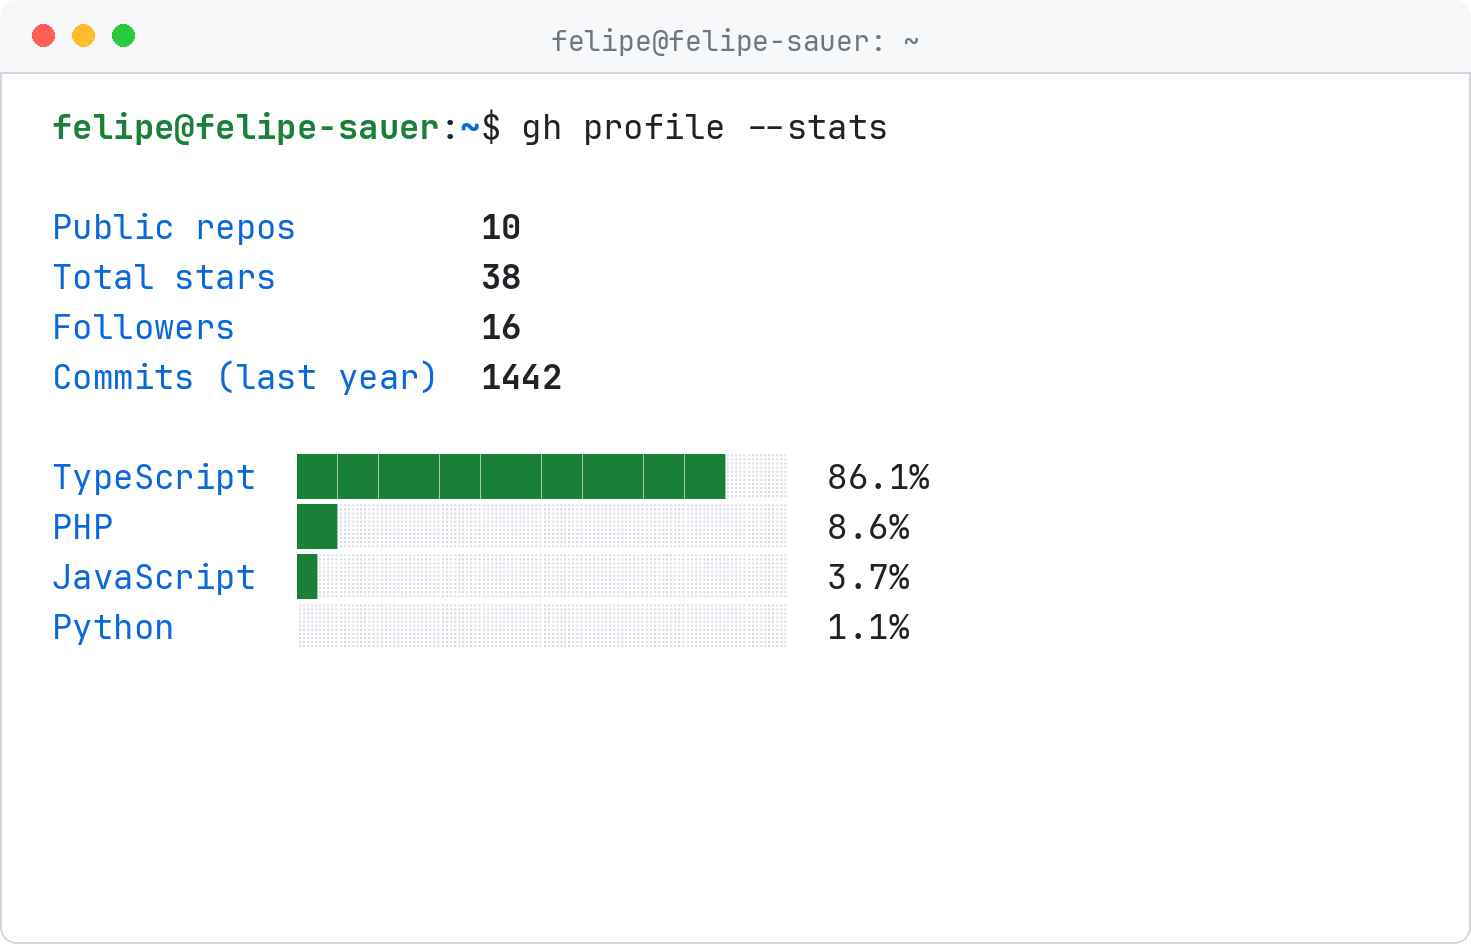
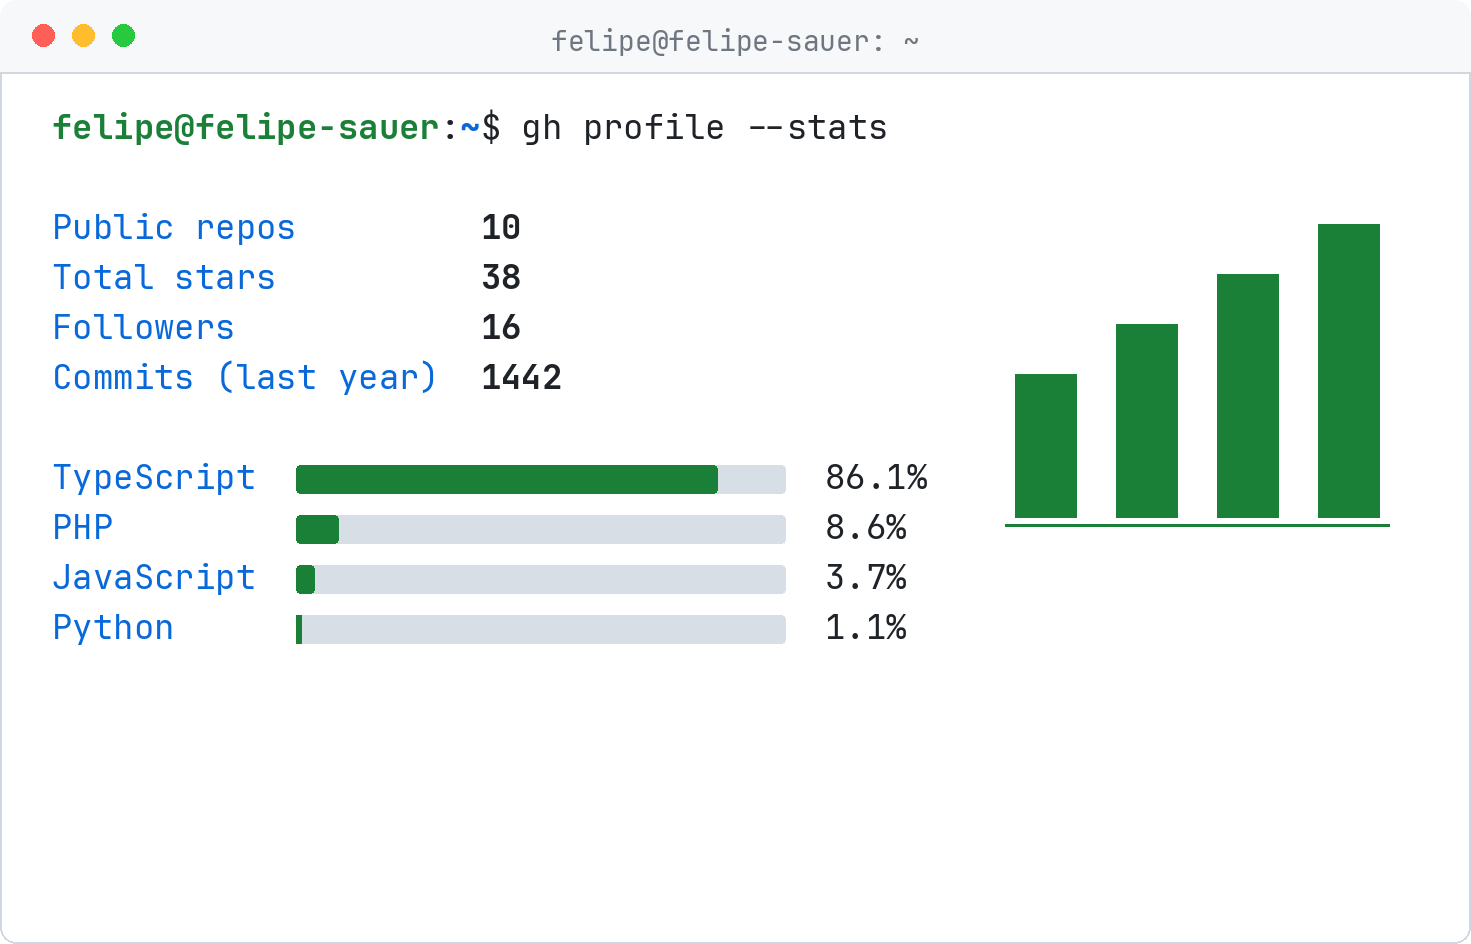
feat: grafico de barras na janela de stats, espelhando o pinguim
A janela de stats ganha um grafico ascendente encostado a direita, no
mesmo peso visual do pinguim que fica a esquerda no banner.

Tanto o grafico quanto as barras de linguagem sao desenhados com
retangulos: escritos com "blocos" eles saem com emendas horizontais,
porque o caractere nao preenche a entrelinha inteira.

Changed region(s): [[0.1835, 0.4608, 0.6424, 0.7066], [0.673, 0.215, 0.9483, 0.5837]]

diff --git a/profile-assets.py b/profile-assets.py
@@ -69,6 +69,13 @@ NEOFETCH_ART = [
     "    \\___)=(___/     ",
 ]
 
+# Grafico de barras da janela de stats: o equivalente do Tux.
+# Desenhado com retangulos, nao com "█": o bloco nao preenche a entrelinha
+# inteira e as barras saem com emendas horizontais visiveis.
+STATS_BARRAS = [3, 4, 5, 6]     # altura de cada barra, em celulas
+STATS_COLS = 20                 # mesma largura do Tux, em caracteres
+STATS_LINHAS = 7                # mesma altura do Tux, em linhas
+
 NEOFETCH_CAMPOS = [
     ("OS", "Full Stack Developer"), ("Host", "Brazil"),
     ("Kernel", "TypeScript / PHP"), ("Shell", "bash on Linux"),
@@ -170,6 +177,19 @@ def stats(tema):
     img, d = moldura(W_BOX, H_BOX, c)
     y = TB + 16 * S
     prompt(d, PADX, y, "gh profile --stats", FS, c, cw); y += LH * 2
+
+    # grafico encostado a direita, espelhando o pinguim que fica a esquerda no banner
+    larg_barra = int(cw * 3)
+    vao = int(cw * 2)
+    total = len(STATS_BARRAS) * larg_barra + (len(STATS_BARRAS) - 1) * vao
+    ax = W_BOX - PADX - int(cw * 2) - total
+    base = y + STATS_LINHAS * LH - int(LH * 0.6)
+    for i, alt in enumerate(STATS_BARRAS):
+        x0 = ax + i * (larg_barra + vao)
+        y0 = base - alt * LH
+        d.rectangle([x0, y0, x0 + larg_barra, base - int(LH * 0.15)], fill=c["VERDE"])
+    d.rectangle([ax - int(cw * 0.5), base, ax + total + int(cw * 0.5), base + max(2, S)],
+                fill=c["VERDE"])
     for k, v in STATS:
         d.text((PADX, y), k.ljust(lab_w), font=f(FONT_R, FS), fill=c["AZUL"])
         d.text((PADX + (lab_w + 2) * cw, y), v, font=f(FONT_B, FS), fill=c["FG"])
@@ -177,11 +197,19 @@ def stats(tema):
     y += LH
     for k, pct in LANGS:
         d.text((PADX, y), k.ljust(lang_w), font=f(FONT_R, FS), fill=c["AZUL"])
-        bx = PADX + (lang_w + 2) * cw
-        cheio = int(round(BARRA * pct / 100))
-        d.text((bx, y), "█" * cheio, font=f(FONT_R, FS), fill=c["VERDE"])
-        d.text((bx + cheio * cw, y), "░" * (BARRA - cheio), font=f(FONT_R, FS), fill=c["TRACK"])
-        d.text((bx + (BARRA + 2) * cw, y), f"{pct}%", font=f(FONT_R, FS), fill=c["FG"])
+        # barras desenhadas, nao escritas com "█": o bloco deixa emendas visiveis
+        bx = int(PADX + (lang_w + 2) * cw)
+        trilho = int(BARRA * cw)
+        altura = int(LH * 0.58)
+        topo = int(y + (LH - altura) / 2)
+        raio = max(2, int(2 * S))
+        d.rounded_rectangle([bx, topo, bx + trilho, topo + altura], raio, fill=c["TRACK"])
+        cheio = int(trilho * pct / 100)
+        if cheio > raio * 2:
+            d.rounded_rectangle([bx, topo, bx + cheio, topo + altura], raio, fill=c["VERDE"])
+        elif cheio > 0:
+            d.rectangle([bx, topo, bx + cheio, topo + altura], fill=c["VERDE"])
+        d.text((bx + trilho + int(cw * 2), y), f"{pct}%", font=f(FONT_R, FS), fill=c["FG"])
         y += LH
     return img
 

diff --git a/README.md b/README.md
@@ -1,9 +1,9 @@
 <div align="center">
 
 <picture>
-  <source media="(prefers-color-scheme: dark)" srcset="https://raw.githubusercontent.com/felipesauer/felipesauer/main/assets/banner.png?v=20260922122759">
-  <source media="(prefers-color-scheme: light)" srcset="https://raw.githubusercontent.com/felipesauer/felipesauer/main/assets/banner-light.png?v=20260922122759">
-  <img src="https://raw.githubusercontent.com/felipesauer/felipesauer/main/assets/banner.png?v=20260922122759" alt="neofetch output for Felipe Sauer: Full Stack Developer, Brazil, TypeScript and PHP, bash on Linux. Backend Node.js, Laravel, REST APIs. Frontend React, Next.js, TailwindCSS. Database PostgreSQL, MySQL, Neo4j. Infra Docker, GitHub Actions, Cloudflare. Quality TypeScript strict, PHPStan max, tests." width="735">
+  <source media="(prefers-color-scheme: dark)" srcset="https://raw.githubusercontent.com/felipesauer/felipesauer/main/assets/banner.png?v=20260922123025">
+  <source media="(prefers-color-scheme: light)" srcset="https://raw.githubusercontent.com/felipesauer/felipesauer/main/assets/banner-light.png?v=20260922123025">
+  <img src="https://raw.githubusercontent.com/felipesauer/felipesauer/main/assets/banner.png?v=20260922123025" alt="neofetch output for Felipe Sauer: Full Stack Developer, Brazil, TypeScript and PHP, bash on Linux. Backend Node.js, Laravel, REST APIs. Frontend React, Next.js, TailwindCSS. Database PostgreSQL, MySQL, Neo4j. Infra Docker, GitHub Actions, Cloudflare. Quality TypeScript strict, PHPStan max, tests." width="735">
 </picture>
 
 <br><br>
@@ -106,9 +106,9 @@ Safe access to **nested data via dot notation** across JSON, YAML, XML, INI, ENV
 <div align="center">
 
 <picture>
-  <source media="(prefers-color-scheme: dark)" srcset="https://raw.githubusercontent.com/felipesauer/felipesauer/main/assets/stats.png?v=20260922122759">
-  <source media="(prefers-color-scheme: light)" srcset="https://raw.githubusercontent.com/felipesauer/felipesauer/main/assets/stats-light.png?v=20260922122759">
-  <img src="https://raw.githubusercontent.com/felipesauer/felipesauer/main/assets/stats.png?v=20260922122759" alt="GitHub stats: 10 public repositories, 38 stars, 16 followers, 1442 commits in the last year. Languages: TypeScript 86.1 percent, PHP 8.6 percent, JavaScript 3.7 percent, Python 1.1 percent" width="735">
+  <source media="(prefers-color-scheme: dark)" srcset="https://raw.githubusercontent.com/felipesauer/felipesauer/main/assets/stats.png?v=20260922123025">
+  <source media="(prefers-color-scheme: light)" srcset="https://raw.githubusercontent.com/felipesauer/felipesauer/main/assets/stats-light.png?v=20260922123025">
+  <img src="https://raw.githubusercontent.com/felipesauer/felipesauer/main/assets/stats.png?v=20260922123025" alt="GitHub stats: 10 public repositories, 38 stars, 16 followers, 1442 commits in the last year. Languages: TypeScript 86.1 percent, PHP 8.6 percent, JavaScript 3.7 percent, Python 1.1 percent" width="735">
 </picture>
 
 </div>
